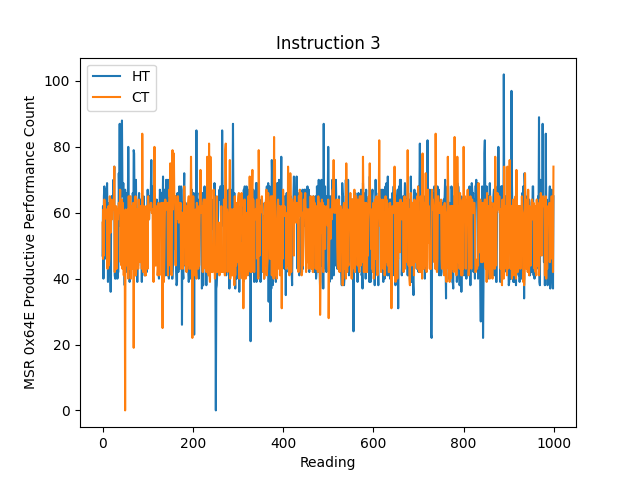
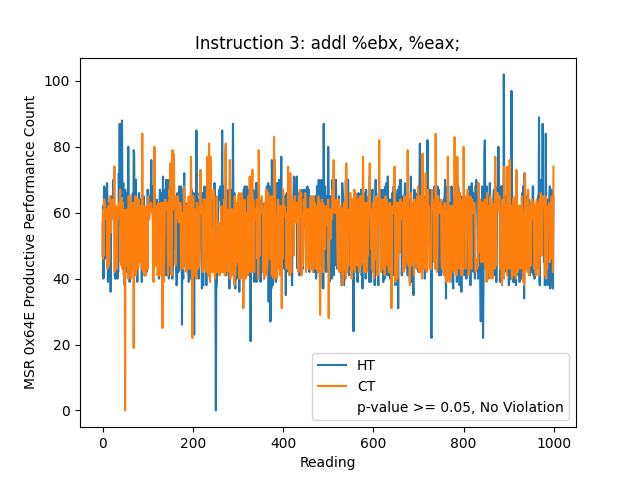
new plots

diff --git a/plots.py b/plots.py
@@ -1,6 +1,7 @@
 import matplotlib.pyplot as plt
 import numpy as np
 import argparse
+from tvla import tvla
 import os
 
 def read_file(file_path):
@@ -36,9 +37,16 @@ if __name__ == '__main__':
 
         plt.plot(data1, label='HT')
         plt.plot(data2, label='CT')
-        plt.title(f'Instruction {i+1}')
+        plt.title(f'Instruction {i+1}: {instructions[i]}')
         plt.xlabel('Reading')
         plt.ylabel('MSR 0x64E Productive Performance Count')
+
+        # show on the plot that TVLA detected a violation
+        result = tvla(f'./outputs/inst_{i+1}_ht.txt', f'./outputs/inst_{i+1}_ct.txt')
+        if result == 1:
+            plt.plot([], [], ' ', label='p-value < 0.05, Violation')
+        else:
+            plt.plot([], [], ' ', label='p-value >= 0.05, No Violation')
 
         plt.legend()
 
